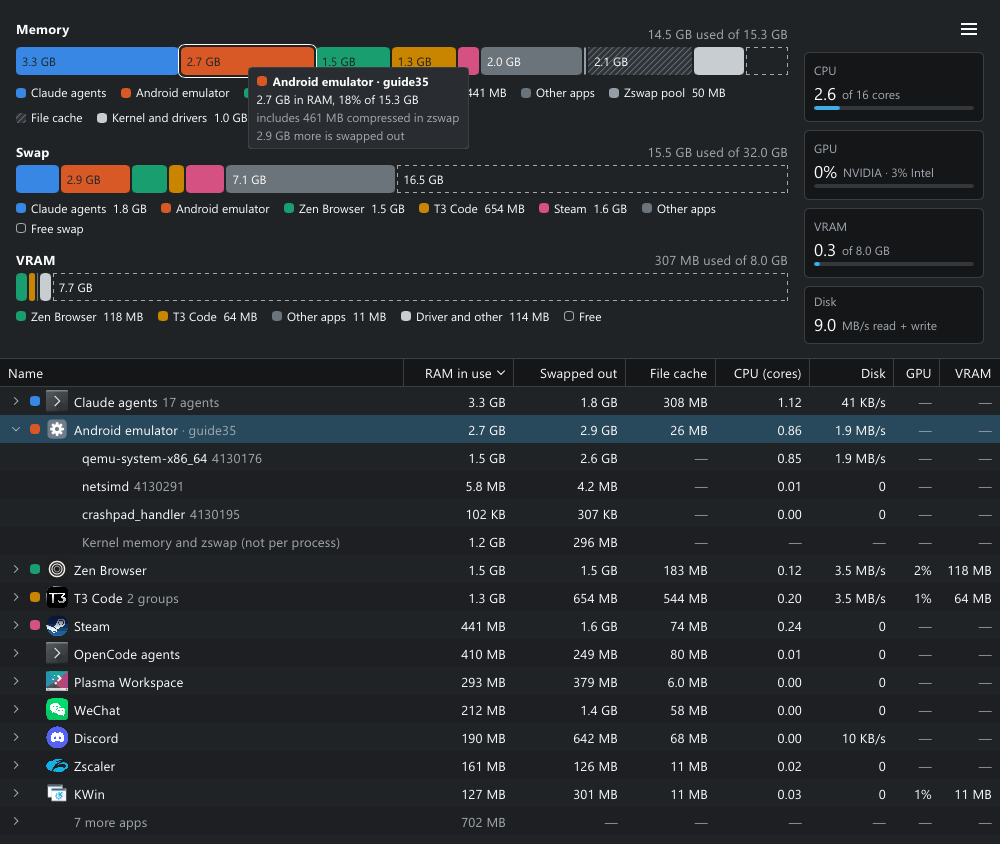
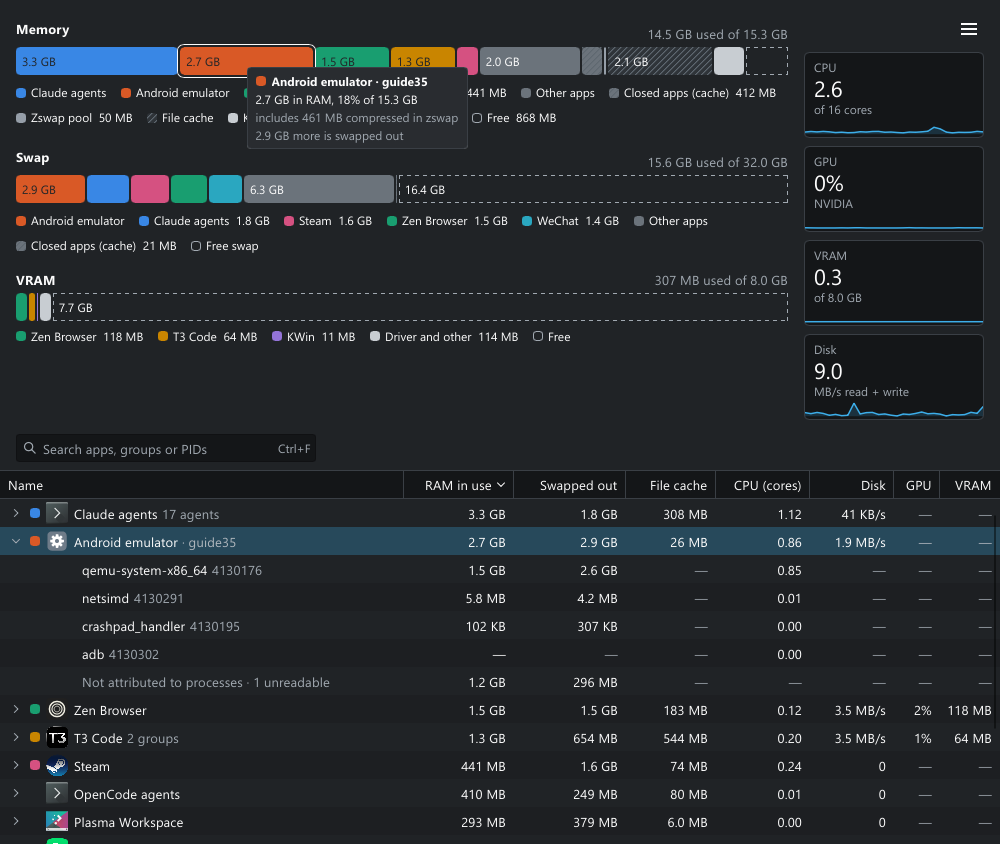
Drop the Intel GPU reading the app never makes; fresh README screenshots (#39) (#57)
The sample showed "3% Intel", but the live app never reads the Intel GPU (Intel and AMD
support is #10), so the field and its display go until a real reading needs them.
The README screenshots are redrawn with every 0.1 change.

diff --git a/crates/app/src/model.rs b/crates/app/src/model.rs
@@ -39,7 +39,6 @@ pub struct Snapshot {
     pub cpu_used: Option<f32>,
     pub cpu_cores: u32,
     pub nvidia_percent: Option<f32>,
-    pub intel_percent: Option<f32>,
     /// Used and total VRAM of the NVIDIA GPU, if it is awake.
     pub vram: Option<(u64, u64)>,
     /// The NVIDIA GPU sleeps: no VRAM figures, as reading them would wake it.
@@ -1164,12 +1163,8 @@ fn tiles(s: &Snapshot, history: &History) -> Vec<Tile> {
     }];
     // A sleeping or silent GPU keeps its tiles, saying so in place of the figures and graphs not
     // read (no value: the words need the tile's width).
-    let intel = |unit: &str| match s.intel_percent {
-        Some(intel) => format!("{unit} · {} Intel", percent(intel)),
-        None => unit.into(),
-    };
     if s.nvidia_unavailable {
-        tiles.push(tile("GPU", String::new(), intel(UNAVAILABLE), None));
+        tiles.push(unavailable("GPU"));
         tiles.push(unavailable("VRAM"));
     } else {
         if let Some(nvidia) = s.nvidia_percent {
@@ -1179,7 +1174,7 @@ fn tiles(s: &Snapshot, history: &History) -> Vec<Tile> {
                 (percent(nvidia), "NVIDIA")
             };
             let graph = (!s.gpu_asleep).then_some((history, Measure::Gpu));
-            tiles.push(tile("GPU", value, intel(unit), graph));
+            tiles.push(tile("GPU", value, unit.into(), graph));
         }
         if let Some((used, total)) = s.vram {
             tiles.push(tile(
@@ -1318,7 +1313,7 @@ mod tests {
             .iter()
             .map(|t| (t.name.as_str(), t.value.as_str(), t.unit.as_str()))
             .collect();
-        assert!(tiles.contains(&("GPU", "", "NVIDIA asleep · 3% Intel")));
+        assert!(tiles.contains(&("GPU", "", "NVIDIA asleep")));
         assert!(tiles.contains(&("VRAM", "", "GPU asleep")));
         // Their graphs go; CPU and Disk keep theirs.
         let graphed: Vec<_> = asleep.tiles.iter().map(|t| t.graphed).collect();
@@ -1743,7 +1738,7 @@ mod tests {
             tiles,
             [
                 t("CPU", "unavailable"),
-                t("GPU", "unavailable · 3% Intel"),
+                t("GPU", "unavailable"),
                 t("VRAM", "unavailable"),
                 t("Disk", "unavailable"),
             ]

diff --git a/crates/app/src/live.rs b/crates/app/src/live.rs
@@ -223,7 +223,6 @@ impl Reader {
                 Some(g) => Some(g.utilization_percent.unwrap_or(0) as f32),
                 None => asleep.then_some(0.0),
             },
-            intel_percent: None,
             vram: gpu
                 .as_ref()
                 .map(|g| (g.vram_used_bytes, g.vram_total_bytes)),
@@ -263,7 +262,6 @@ impl Reader {
                 Some(g) => Some(g.utilization_percent.unwrap_or(0) as f32),
                 None => asleep.then_some(0.0),
             },
-            intel_percent: None,
             vram: gpu
                 .as_ref()
                 .map(|g| (g.vram_used_bytes, g.vram_total_bytes)),

diff --git a/crates/app/src/sample.rs b/crates/app/src/sample.rs
@@ -291,7 +291,6 @@ pub fn snapshot() -> Snapshot {
         cpu_used: Some(2.6),
         cpu_cores: 16,
         nvidia_percent: Some(0.0),
-        intel_percent: Some(3.0),
         vram: Some((b(0.3, G), b(8.0, G))),
         gpu_asleep: false,
         nvidia_unavailable: false,

diff --git a/README.md b/README.md
@@ -15,7 +15,7 @@
 </p>
 
 <p align="center">
-  <img src="docs/readme/breeze-light.png" alt="SebWatch in Breeze Light: RAM, swap and VRAM bars split by app, CPU, GPU, VRAM and disk tiles, and the app table with the Android emulator expanded into its processes" />
+  <img src="docs/readme/breeze-light.png" alt="SebWatch in Breeze Light: RAM, swap and VRAM bars split by app, CPU, GPU, VRAM and disk tiles with their last minute as a graph, and the app table with the Android emulator expanded into its processes" />
   <br /><sub>Breeze Light, with the Android emulator expanded into its processes</sub>
 </p>
 
